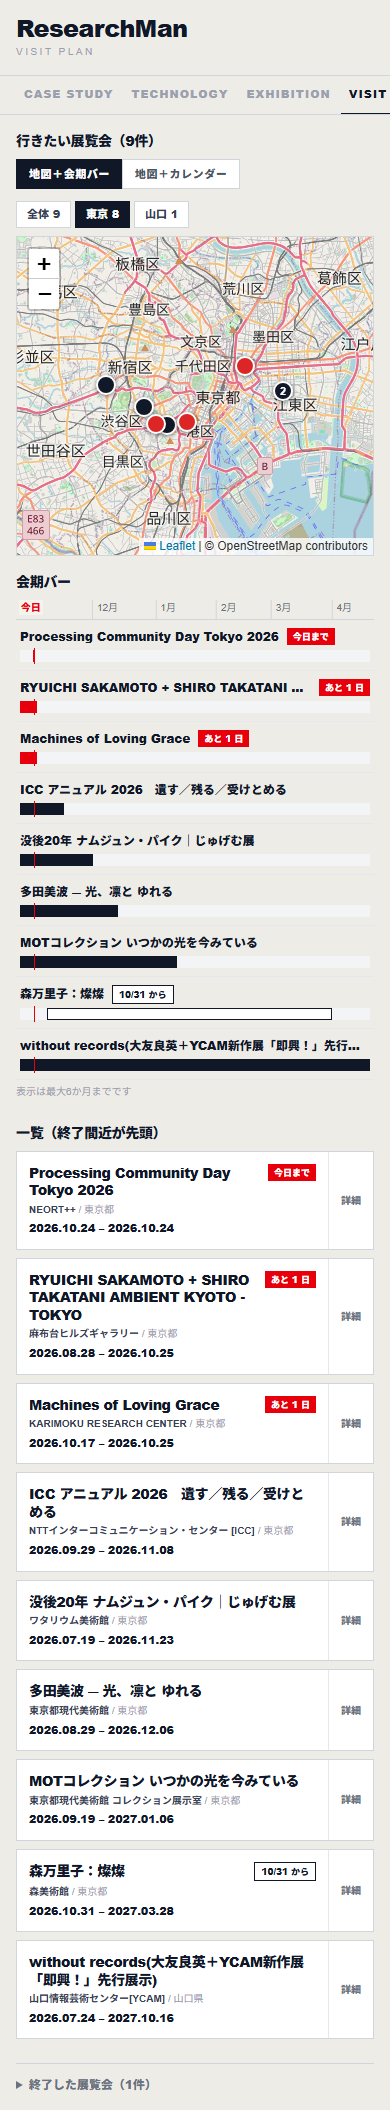
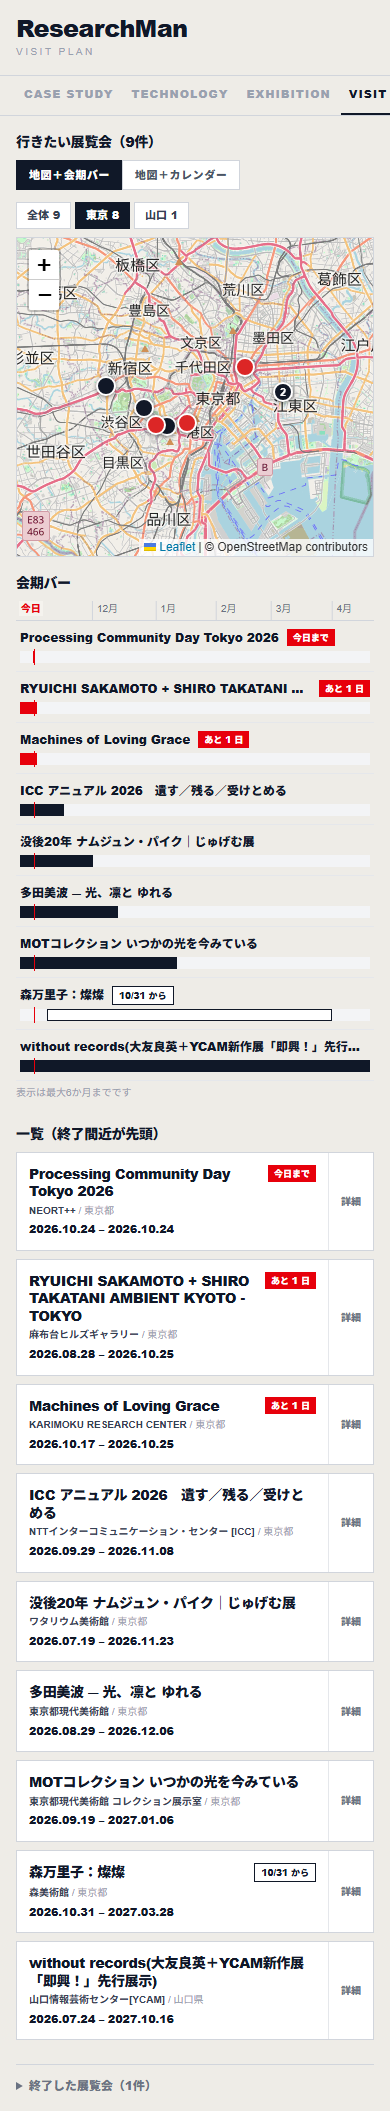
fix(visit): tab bar vertical scrollbar, stable region selection, fit only on request, mobile scroll to map, unlocated badge in calendar
Claude-Session: https://claude.ai/code/session_01LfmufxBMzLqXS66s4TTiNm

diff --git a/src/components/VisitClient.tsx b/src/components/VisitClient.tsx
@@ -1,6 +1,6 @@
 "use client";
 
-import { useCallback, useEffect, useMemo, useState } from "react";
+import { useCallback, useEffect, useMemo, useRef, useState } from "react";
 import dynamic from "next/dynamic";
 import Link from "next/link";
 import type { Exhibition } from "@/lib/exhibition";
@@ -60,24 +60,47 @@ export default function VisitClient({ items, geo, initialToday, initialView }: P
 
   // 地域グループ（50km 以内で連結）。初期表示は最大グループ、チップで切替
   const clusters = useMemo(() => clusterPins(pins, 50), [pins]);
-  const [region, setRegion] = useState<"all" | number>(0);
+  // 選択は地域ラベルで保持。該当が無くなったら最大グループに正規化
+  const [regionSel, setRegionSel] = useState<string | null>(null); // null=最大グループ, "all"=全体, それ以外=ラベル
+  const [fitNonce, setFitNonce] = useState(0);
+  const mapBoxRef = useRef<HTMLDivElement>(null);
+  const activeCluster = useMemo(() => {
+    if (regionSel === "all") return -1;
+    const i = regionSel === null ? -1 : clusters.findIndex((c) => c.label === regionSel);
+    return i >= 0 ? i : 0;
+  }, [regionSel, clusters]);
   const fitPins = useMemo(
-    () => (region === "all" ? pins : (clusters[region] ?? clusters[0])?.pins ?? pins),
-    [region, clusters, pins],
+    () => (activeCluster < 0 ? pins : (clusters[activeCluster]?.pins ?? pins)),
+    [activeCluster, clusters, pins],
   );
+  const pickRegion = useCallback((sel: string) => {
+    setRegionSel(sel);
+    setFitNonce((n) => n + 1);
+  }, []);
+  const changeDateFilter = useCallback((d: string | null) => {
+    setDateFilter(d);
+    setFitNonce((n) => n + 1);
+  }, []);
+  const pinItemCount = useMemo(() => pins.reduce((n, p) => n + p.items.length, 0), [pins]);
 
   const changeView = useCallback((v: VisitView) => {
     setView(v);
-    setDateFilter(null);
+    changeDateFilter(null);
     try {
       window.history.replaceState(null, "", `?view=${v}`);
     } catch {}
-  }, []);
+  }, [changeDateFilter]);
 
   // 項目（リスト・バー）を押す: 強調 + 地図をその会場へ
   const selectItem = useCallback(
     (e: Exhibition) => {
       setHighlightIds([e.id]);
+      // スマホ幅（lg 未満）は地図が画面外ならスクロールで見せる
+      const box = mapBoxRef.current;
+      if (box && window.innerWidth < 1024) {
+        const r = box.getBoundingClientRect();
+        if (r.top < 0 || r.bottom > window.innerHeight) box.scrollIntoView({ behavior: "smooth", block: "center" });
+      }
       const pin = pins.find((p) => p.items.some((x) => x.id === e.id));
       if (pin) {
         setHighlightVenue(pin.venue);
@@ -145,24 +168,29 @@ export default function VisitClient({ items, geo, initialToday, initialView }: P
           {clusters.length > 0 && (
             <div className="flex flex-wrap gap-1 mb-2" role="group" aria-label="地図の表示地域">
               {clusters.length > 1 && (
-                <button type="button" aria-pressed={region === "all"} onClick={() => setRegion("all")} className={chipClass(region === "all")}>
-                  全体 {mapItems.length}
+                <button type="button" aria-pressed={activeCluster < 0} onClick={() => pickRegion("all")} className={chipClass(activeCluster < 0)}>
+                  全体 {pinItemCount}
                 </button>
               )}
               {clusters.map((c, i) => (
-                <button key={`${c.label}-${i}`} type="button" aria-pressed={region === i} onClick={() => setRegion(i)} className={chipClass(region === i)}>
+                <button key={`${c.label}-${i}`} type="button" aria-pressed={activeCluster === i} onClick={() => pickRegion(c.label)} className={chipClass(activeCluster === i)}>
                   {c.label} {c.count}
                 </button>
               ))}
             </div>
           )}
-          <div className="h-[320px] lg:h-[calc(100vh-220px)] lg:min-h-[420px] border border-gray-300 bg-gray-100">
-            <VisitMap pins={pins} fitPins={fitPins} highlightedVenue={highlightVenue} focus={focus} onPinSelect={selectPin} />
+          <div ref={mapBoxRef} className="relative h-[320px] lg:h-[calc(100vh-220px)] lg:min-h-[420px] border border-gray-300 bg-gray-100">
+            <VisitMap pins={pins} fitPins={fitPins} fitNonce={fitNonce} highlightedVenue={highlightVenue} focus={focus} onPinSelect={selectPin} />
+            {dateFilter && mapItems.length === 0 && (
+              <p role="status" className="absolute inset-x-4 top-4 z-[1000] bg-white/95 border border-gray-300 px-3 py-2 text-[12px] font-black text-gray-700 text-center">
+                この日に開いている展覧会はありません
+              </p>
+            )}
           </div>
           {dateFilter && (
             <p className="mt-2 text-[11px] text-gray-600">
               {dateFilter.replaceAll("-", ".")} に開いている展覧会だけを地図に表示中
-              <button type="button" onClick={() => setDateFilter(null)} className="ml-2 underline font-black text-gray-900">
+              <button type="button" onClick={() => changeDateFilter(null)} className="ml-2 underline font-black text-gray-900">
                 解除
               </button>
             </p>
@@ -183,8 +211,9 @@ export default function VisitClient({ items, geo, initialToday, initialView }: P
               active={active}
               today={today}
               dateFilter={dateFilter}
-              onDateFilter={setDateFilter}
+              onDateFilter={changeDateFilter}
               highlightIds={highlightSet}
+              unlocatedIds={unlocatedIds}
               onSelect={selectItem}
             />
           )}

diff --git a/src/components/VisitMap.tsx b/src/components/VisitMap.tsx
@@ -10,6 +10,8 @@ type Props = {
   pins: VenuePin[];
   // 地図をこのピン群に fitBounds する（配列が変わるたびに実行）
   fitPins: VenuePin[];
+  // 初回表示と、この値が変わったとき（地域チップ・日付絞り込み）だけ fitBounds する
+  fitNonce: number;
   highlightedVenue: string | null;
   // 項目クリックで地図を会場へ移動しポップアップを開く（nonce が変わるたびに実行）
   focus: { venue: string; nonce: number } | null;
@@ -52,7 +54,7 @@ function popupContent(pin: VenuePin): HTMLElement {
   return root;
 }
 
-export default function VisitMap({ pins, fitPins, highlightedVenue, focus, onPinSelect }: Props) {
+export default function VisitMap({ pins, fitPins, fitNonce, highlightedVenue, focus, onPinSelect }: Props) {
   const elRef = useRef<HTMLDivElement>(null);
   const mapRef = useRef<L.Map | null>(null);
   const layerRef = useRef<L.LayerGroup | null>(null);
@@ -103,14 +105,19 @@ export default function VisitMap({ pins, fitPins, highlightedVenue, focus, onPin
   }, [pins]);
 
   // 表示範囲（地域チップ・初期表示）
+  const fittedRef = useRef(false);
+  const lastNonceRef = useRef(fitNonce);
   useEffect(() => {
     const map = mapRef.current;
     if (!map || fitPins.length === 0) return;
+    if (fittedRef.current && lastNonceRef.current === fitNonce) return; // パン/ズームを保つ
+    fittedRef.current = true;
+    lastNonceRef.current = fitNonce;
     map.fitBounds(L.latLngBounds(fitPins.map((p) => [p.lat, p.lng] as [number, number])), {
       padding: [40, 40],
       maxZoom: 15,
     });
-  }, [fitPins]);
+  }, [fitPins, fitNonce]);
 
   // 強調ピン
   useEffect(() => {

diff --git a/src/components/VisitCalendar.tsx b/src/components/VisitCalendar.tsx
@@ -14,11 +14,12 @@ type Props = {
   dateFilter: string | null;
   onDateFilter: (d: string | null) => void;
   highlightIds: Set<string>;
+  unlocatedIds: Set<string>;
   onSelect: (e: Exhibition) => void;
 };
 
 // 案②: 月カレンダー。会期を色帯で重ね、日付クリックでその日に開いている展覧会だけ地図に絞る
-export default function VisitCalendar({ active, today, dateFilter, onDateFilter, highlightIds, onSelect }: Props) {
+export default function VisitCalendar({ active, today, dateFilter, onDateFilter, highlightIds, unlocatedIds, onSelect }: Props) {
   const [ym, setYm] = useState(() => ({ year: Number(today.slice(0, 4)), month: Number(today.slice(5, 7)) }));
   const cells = useMemo(() => monthCalendar(ym.year, ym.month, active), [ym, active]);
 
@@ -97,6 +98,11 @@ export default function VisitCalendar({ active, today, dateFilter, onDateFilter,
             <button type="button" onClick={() => onSelect(e)} className="flex items-center gap-2 text-left text-[11px] text-gray-700 hover:text-gray-900">
               <span className="inline-block w-3 h-3 shrink-0" style={{ background: colors.get(e.id) }} aria-hidden="true" />
               <span className="truncate">{e.title}</span>
+              {unlocatedIds.has(e.id) && (
+                <span className="shrink-0 text-[9px] px-1.5 py-1 leading-none text-gray-500 border border-dashed border-gray-400">
+                  地図未登録
+                </span>
+              )}
             </button>
           </li>
         ))}

diff --git a/src/components/TopTabs.tsx b/src/components/TopTabs.tsx
@@ -13,14 +13,14 @@ export default function TopTabs({ active }: { active: "cases" | "tech" | "exhibi
   return (
     <nav
       aria-label="アーカイブ切替"
-      className="max-w-[1600px] mx-auto px-4 flex items-stretch gap-0.5 sm:gap-1 overflow-x-auto"
+      className="max-w-[1600px] mx-auto px-4 flex items-stretch gap-0.5 sm:gap-1 overflow-x-auto overflow-y-hidden"
     >
       {tabs.map((t) => (
         <Link
           key={t.key}
           href={t.href}
           aria-current={active === t.key ? "page" : undefined}
-          className={`shrink-0 px-2 sm:px-3 py-2.5 text-[11px] tracking-[0.1em] sm:tracking-[0.2em] uppercase font-black transition-colors border-b-2 -mb-px ${
+          className={`shrink-0 px-2 sm:px-3 py-2.5 text-[11px] tracking-[0.1em] sm:tracking-[0.2em] uppercase font-black transition-colors border-b-2 ${
             active === t.key
               ? "text-gray-900 border-gray-900"
               : "text-gray-400 border-transparent hover:text-gray-700"
